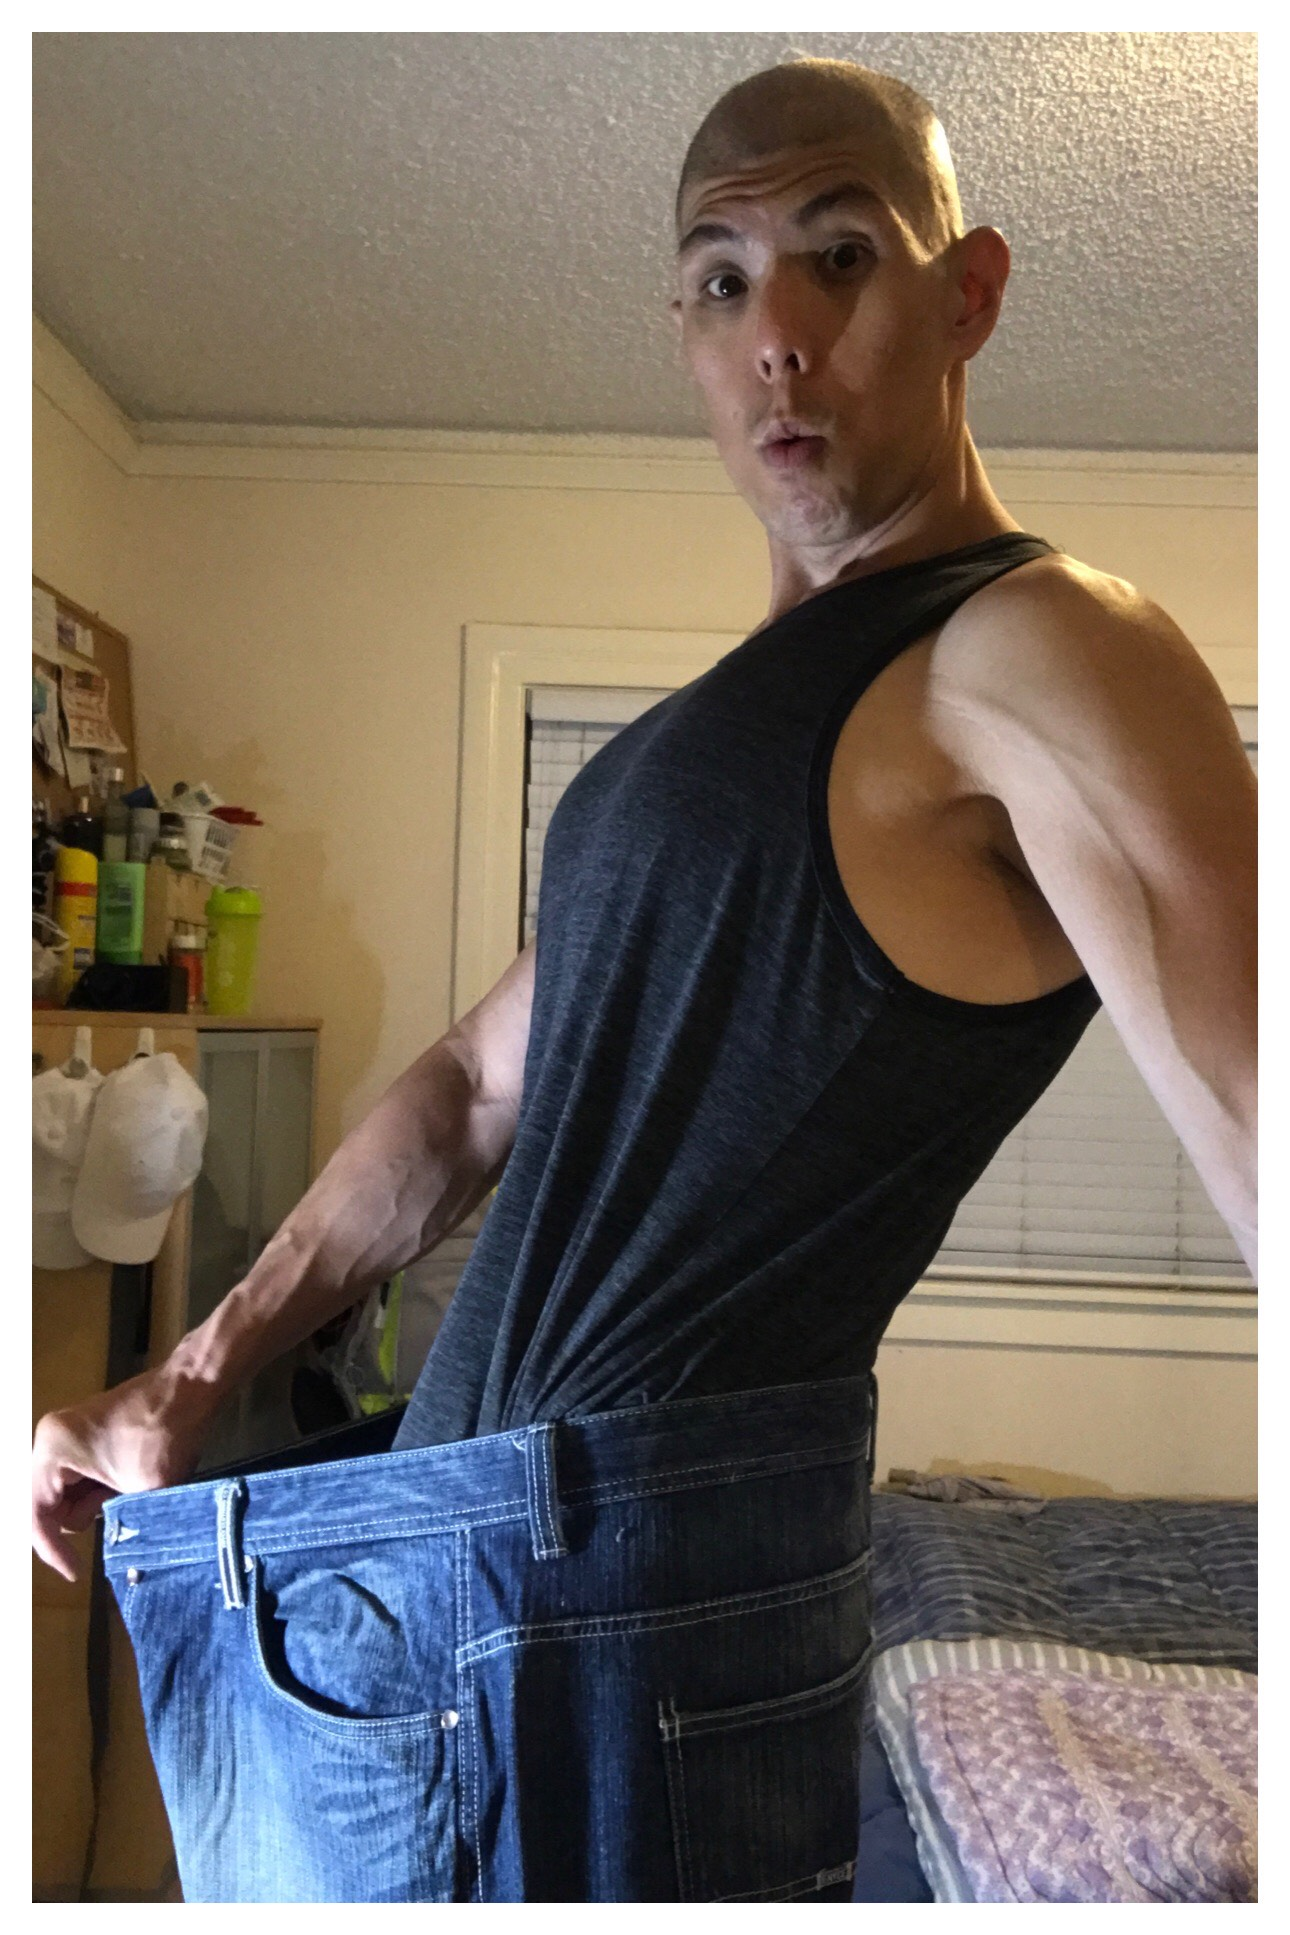
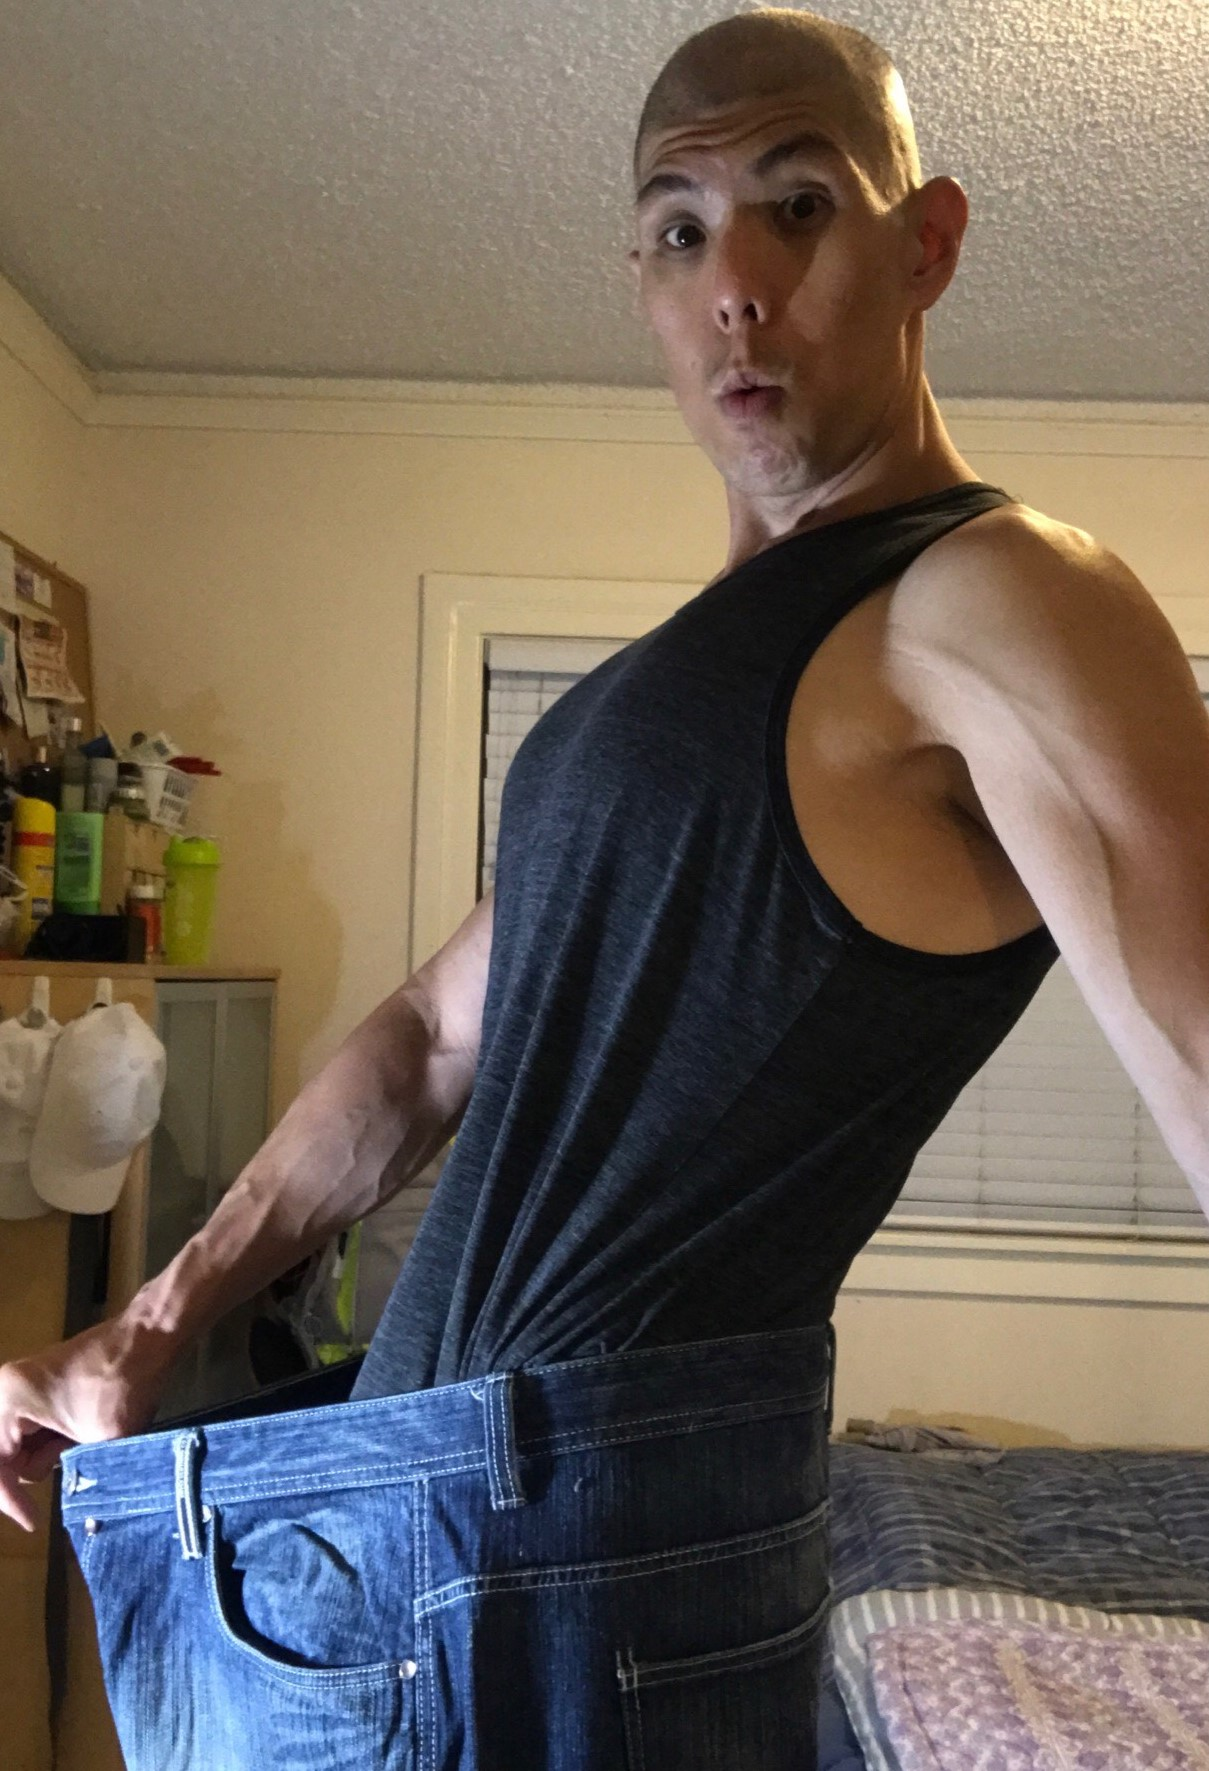
resized images

diff --git a/index.html b/index.html
@@ -130,12 +130,12 @@
           </div>
     
           <div class="box" data-aos="fade-right" data-aos-easing="ease" data-aos-delay="1900" data-aos-duration="1000">
-            <img src="images/loss.jpg" alt="" />
+            <img src="images/loss.jpg" height="428px" alt="" />
             <div class="feature-info-container text-center">
               <div class="icon">
                 <i class="img fa fa-minus-circle fa-5x" aria-hidden="true"></i>
               </div>
-              <h4> <span style="color:goldenrod">132lbs</span> Loss from 
+              <h4> <span style="color:goldenrod">132lbs</span> Total weight loss from 
                 <span style="color:darkred">320lbs</span></h4>
               <!-- <p>Pellentesque dictum nisl in nibh dictum volutpat nec a quam. Vivamus suscipit nisl quis nulla pretium, vitae ornare leo.</p> -->
             </div>
